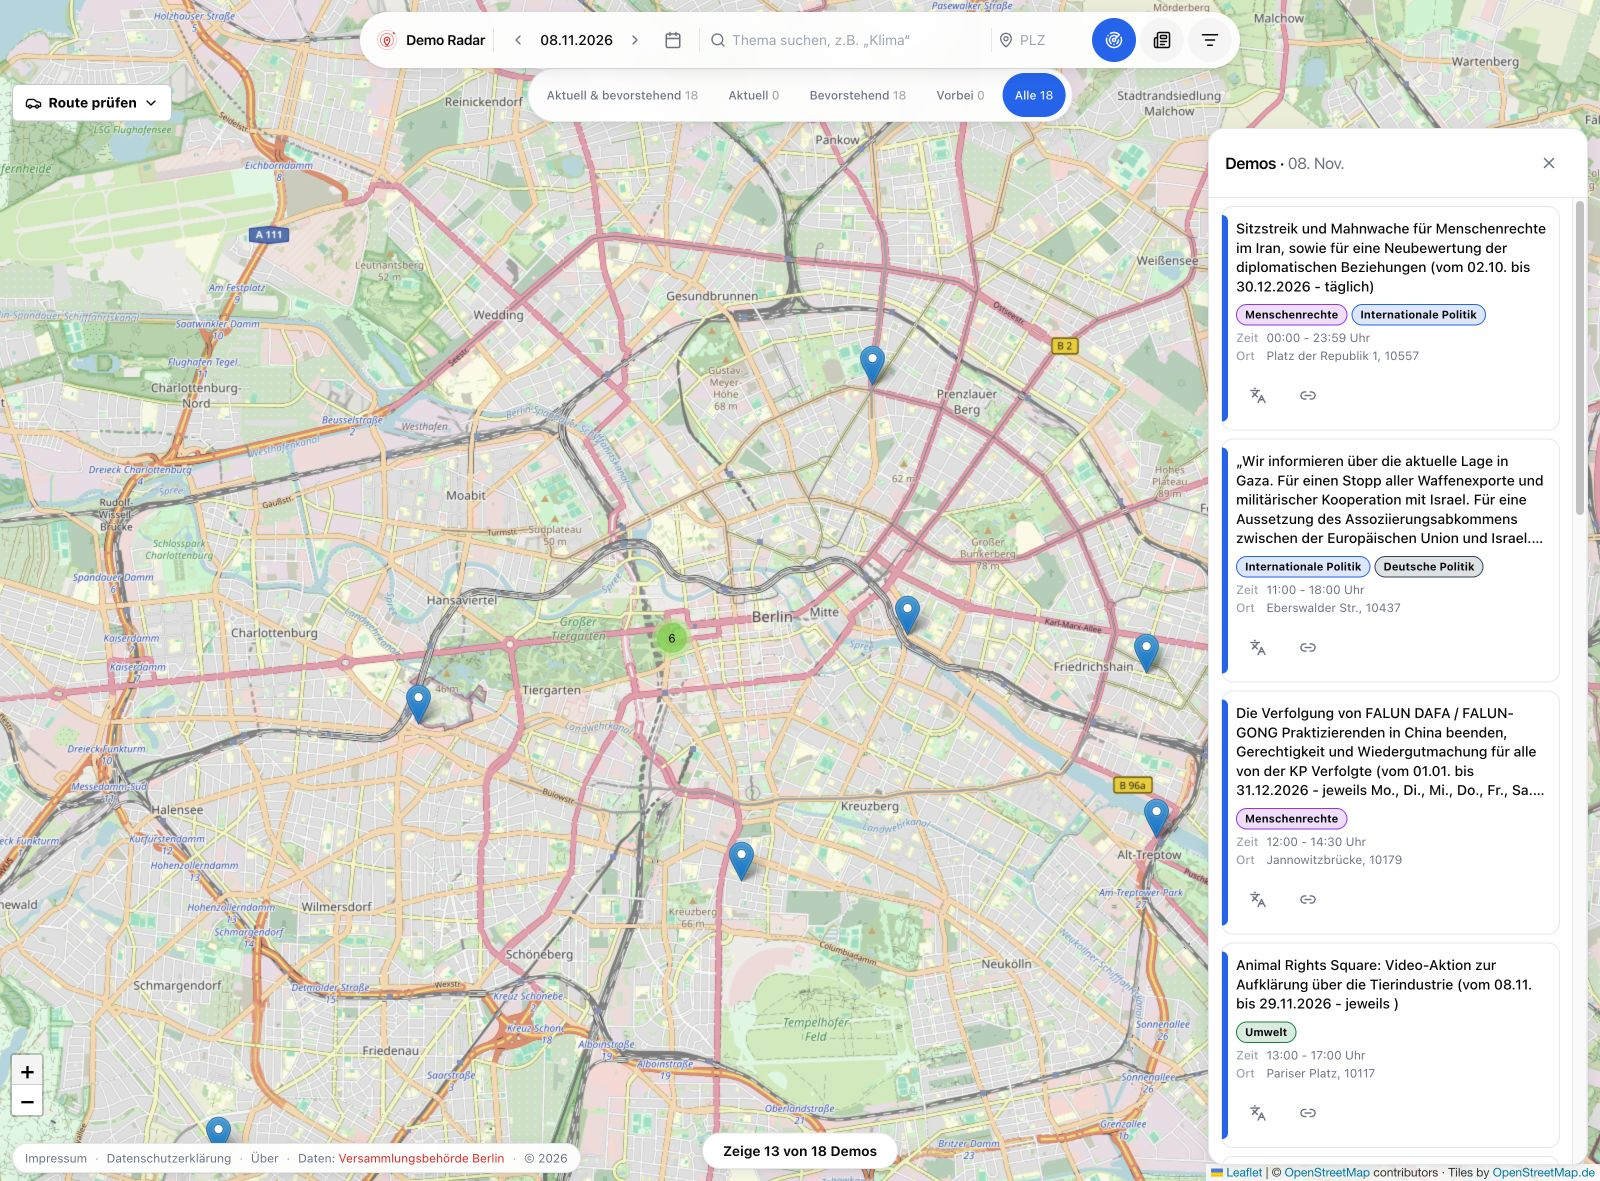
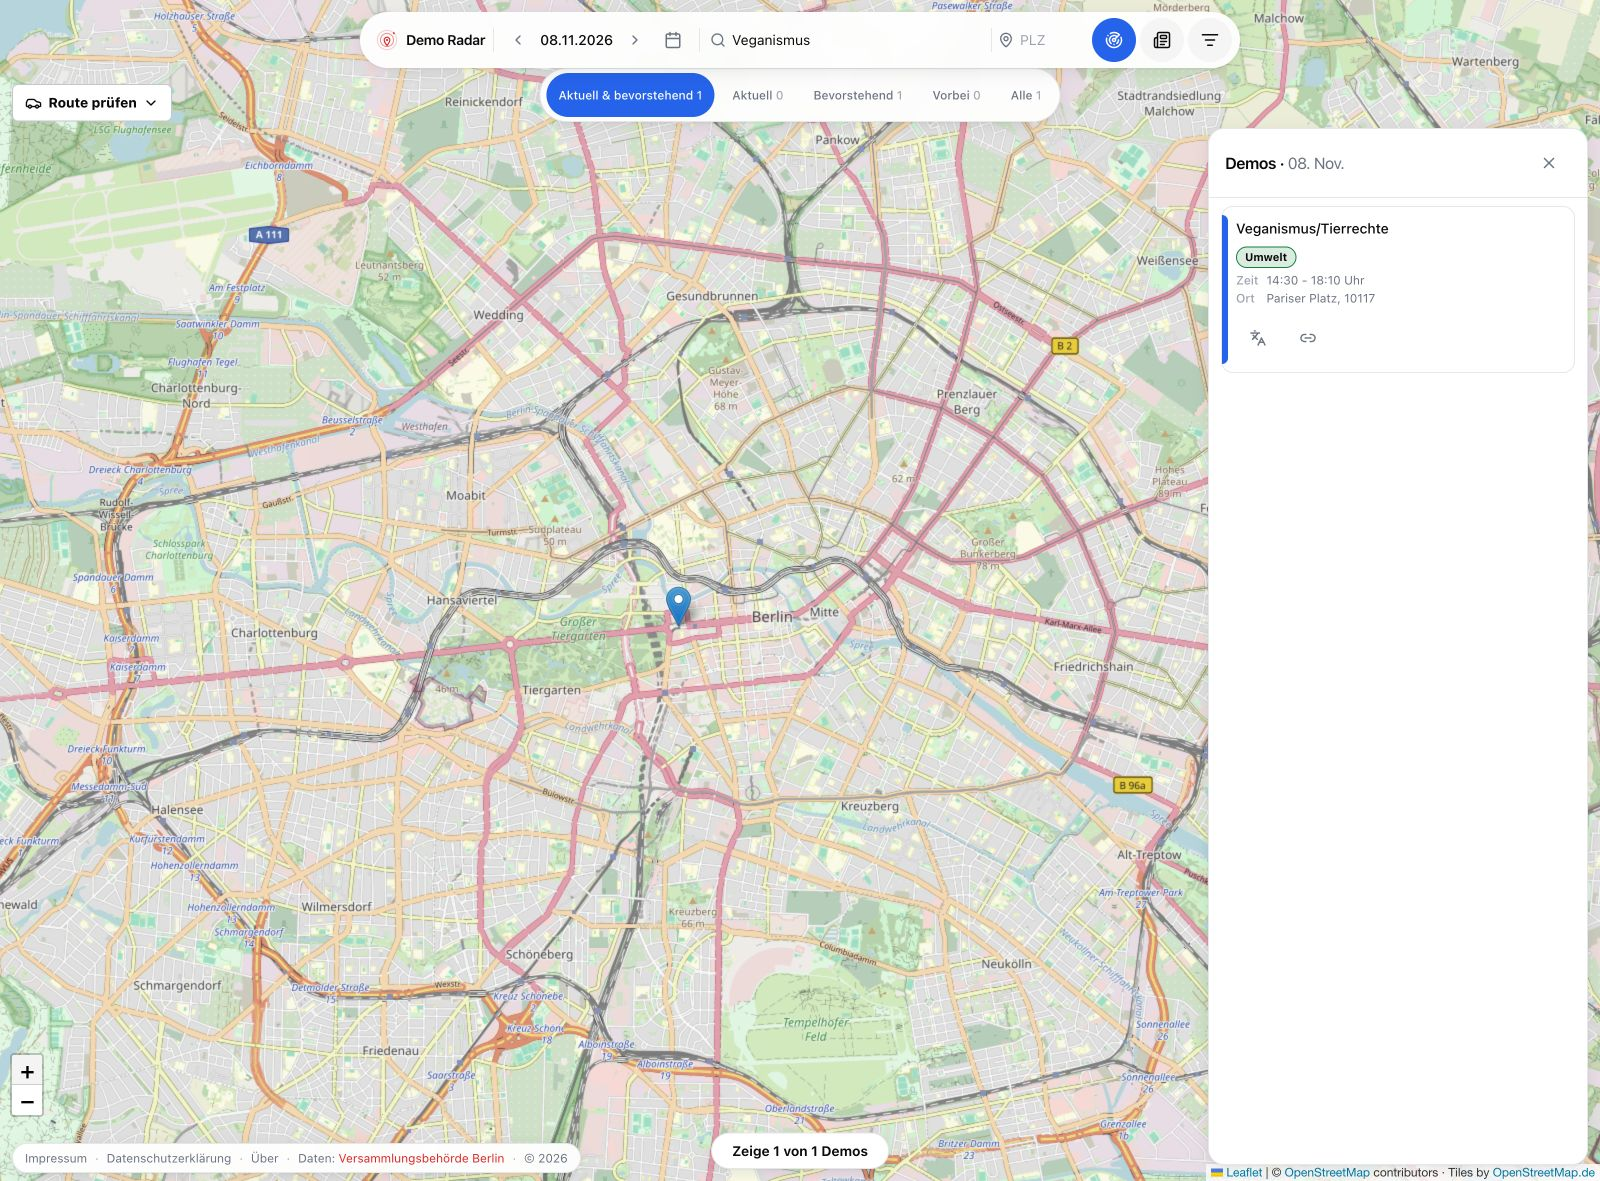
docs: use a concise animal rights example

diff --git a/README.md b/README.md
@@ -11,9 +11,9 @@ decide where they want to participate and which areas they would rather avoid.
 **[Read the DemoLogic project](https://github.com/demo-radar/demo-radar-logic)** ·
 **[See the architecture](docs/architecture.md)**
 
-[![Demo Radar's desktop map of Berlin with demonstration markers, a cluster, date and status filters, the daily briefing button, and an event list with topic tags.](assets/demo-radar-overview.jpg)](https://demo-radar.com)
+[![Demo Radar's map of Berlin showing a veganism and animal rights demonstration, its location, and topic tag.](assets/demo-radar-overview.jpg)](https://demo-radar.com)
 
-*The public application, captured on 7 November 2026 with 8 November selected.
+*The public application, captured on 7 November 2026 with 8 November selected and the topic filter applied.
 Open the live map to explore current records.*
 
 Map data © [OpenStreetMap contributors](https://www.openstreetmap.org/copyright);
